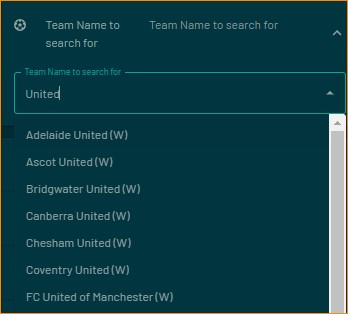
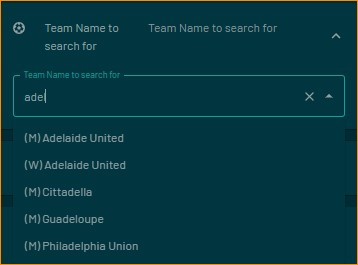
update - remove cache schema field, fix other things

diff --git a/apps/soccersingle/README.md b/apps/soccersingle/README.md
@@ -1,6 +1,6 @@
 # Track single soccer team across all global tournaments / leagues they are playing in
 
-Single Soccer Team displays upcoming / current / completed games for the single team you have selected - regardless of the league / tournment.  Handles all ESPN API leagues / tournaments.
+Show upcoming / current / future game for a single soccer team across all leagues / tournaments they play in - one app tracks the team everywhere.  Handles all ESPN API leagues / tournaments.
 Approx 3000 teams globally are in this app (2500 men's teams & 500 women's teams - including professional, international and college)
 
 Displayed:
@@ -12,8 +12,7 @@ Displayed:
 - If past game:  Final Score  (as per ESPN API - scores flip over to next game at 1AM US ET - future version coming to assist with this)
 
 ## Configuration
-- Select Men's/Women's teams to search
-- Enter text to search team name (minimum 4 characters)
+- Enter text to search team name (minimum 4 characters) - Women's teams are prefixed with a W & Men's with an M
 - Which team to display first (home or away)
 - Select display format type
 - Select color for time (uses new schema.Color)
@@ -22,7 +21,7 @@ Displayed:
 ## Thanks
 
 Tons of thanks to @whyamihere/@rs7q5 for the API assistance - couldn't have gotten here without you
-Thanks to @dinotash/@dinosaursrarr for making me think deep thoughts about connected schema fields
+Thanks to @dinotash/@dinosaursrarr for making me think deep thoughts about connected schema fields & @matslina for setting me straight.
 Of course - the original author of a bunch of this display code is @Lunchbox8484
 Thanks to @jesushairdo for the option to be able to show home or away team first.  Let's be more international :-)
 
@@ -32,6 +31,5 @@ Thanks to @jesushairdo for the option to be able to show home or away team first
 ![screenshot](soccersingle-score-2.jpg)
 
 ## Schema Search for Teams
-![screenshot](soccersingle-schema-gender.jpg)
 ![screenshot](soccersingle-schema-teamsearch-3.jpg)
 ![screenshot](soccersingle-schema-teamsearch-2.jpg)
